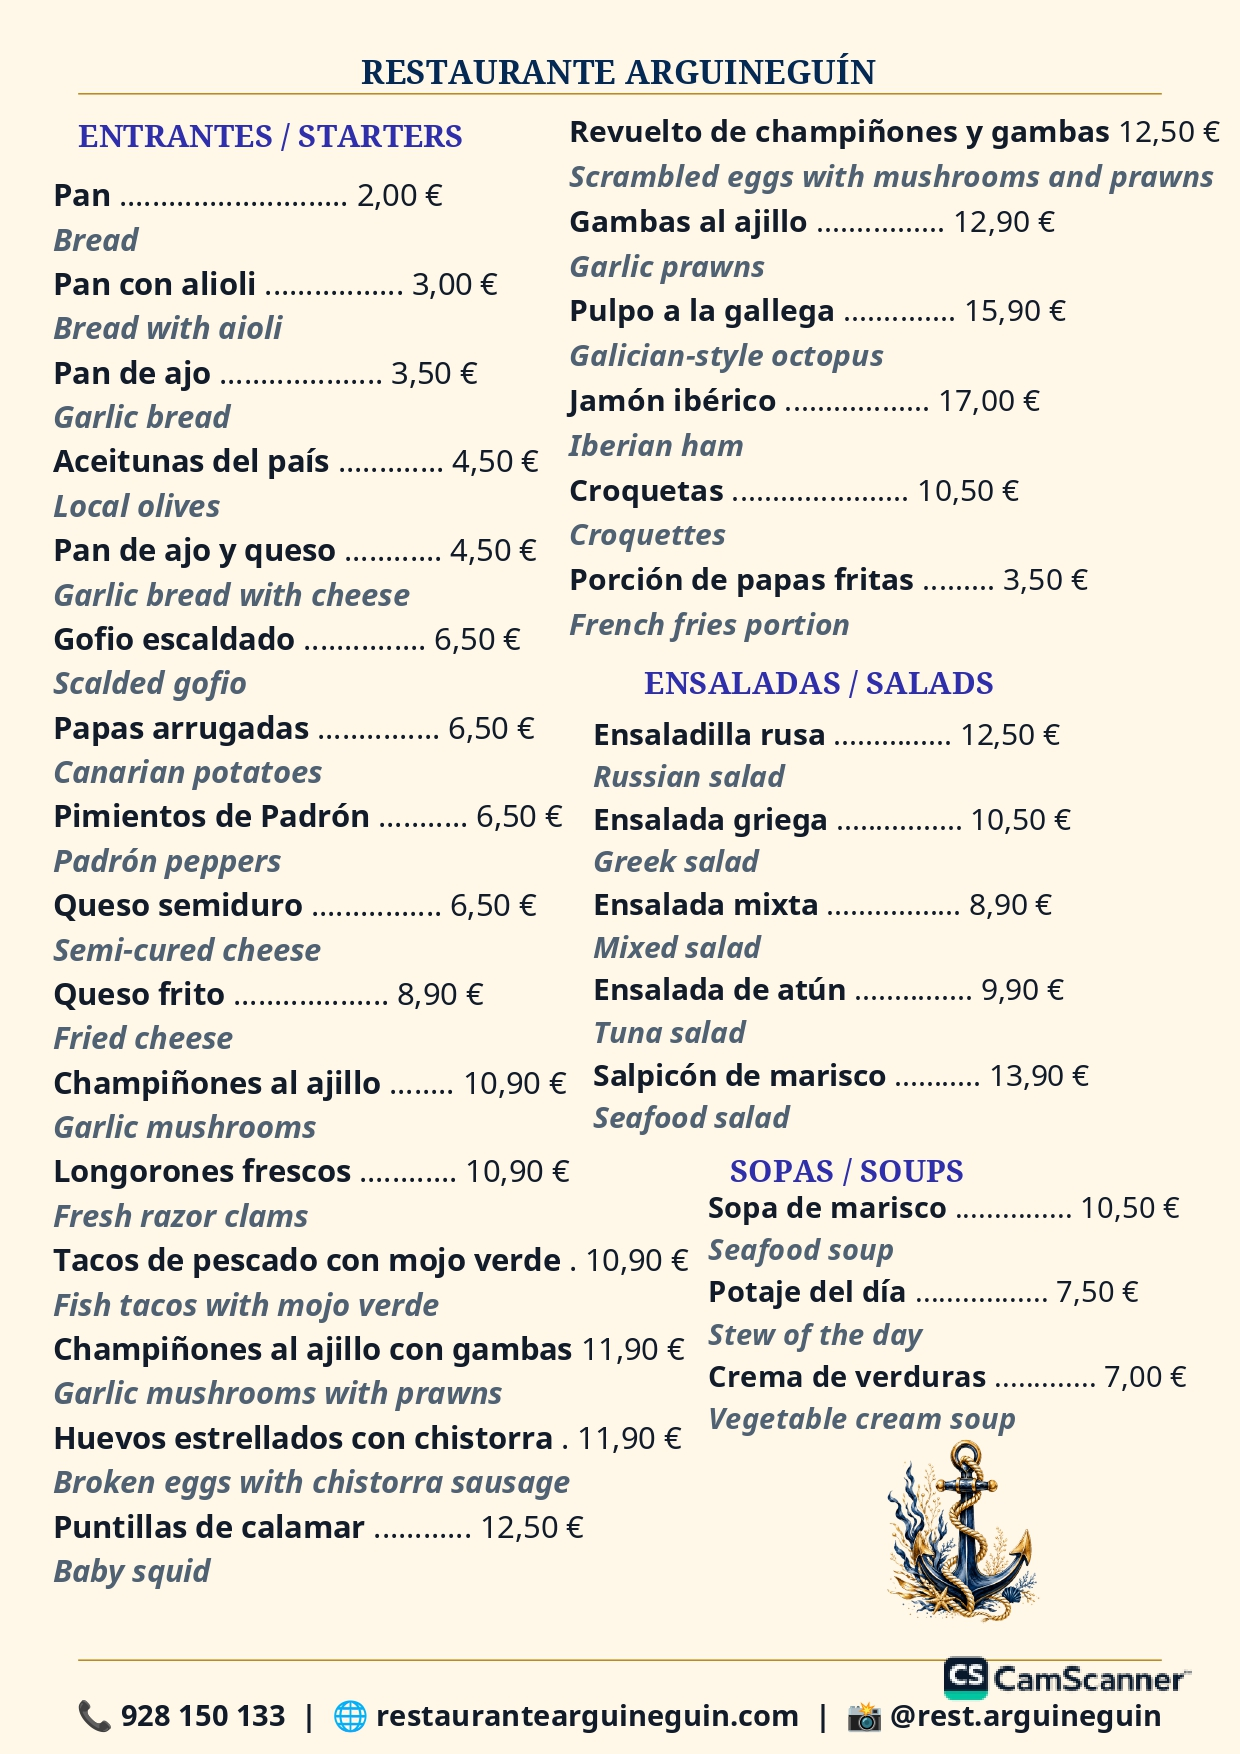
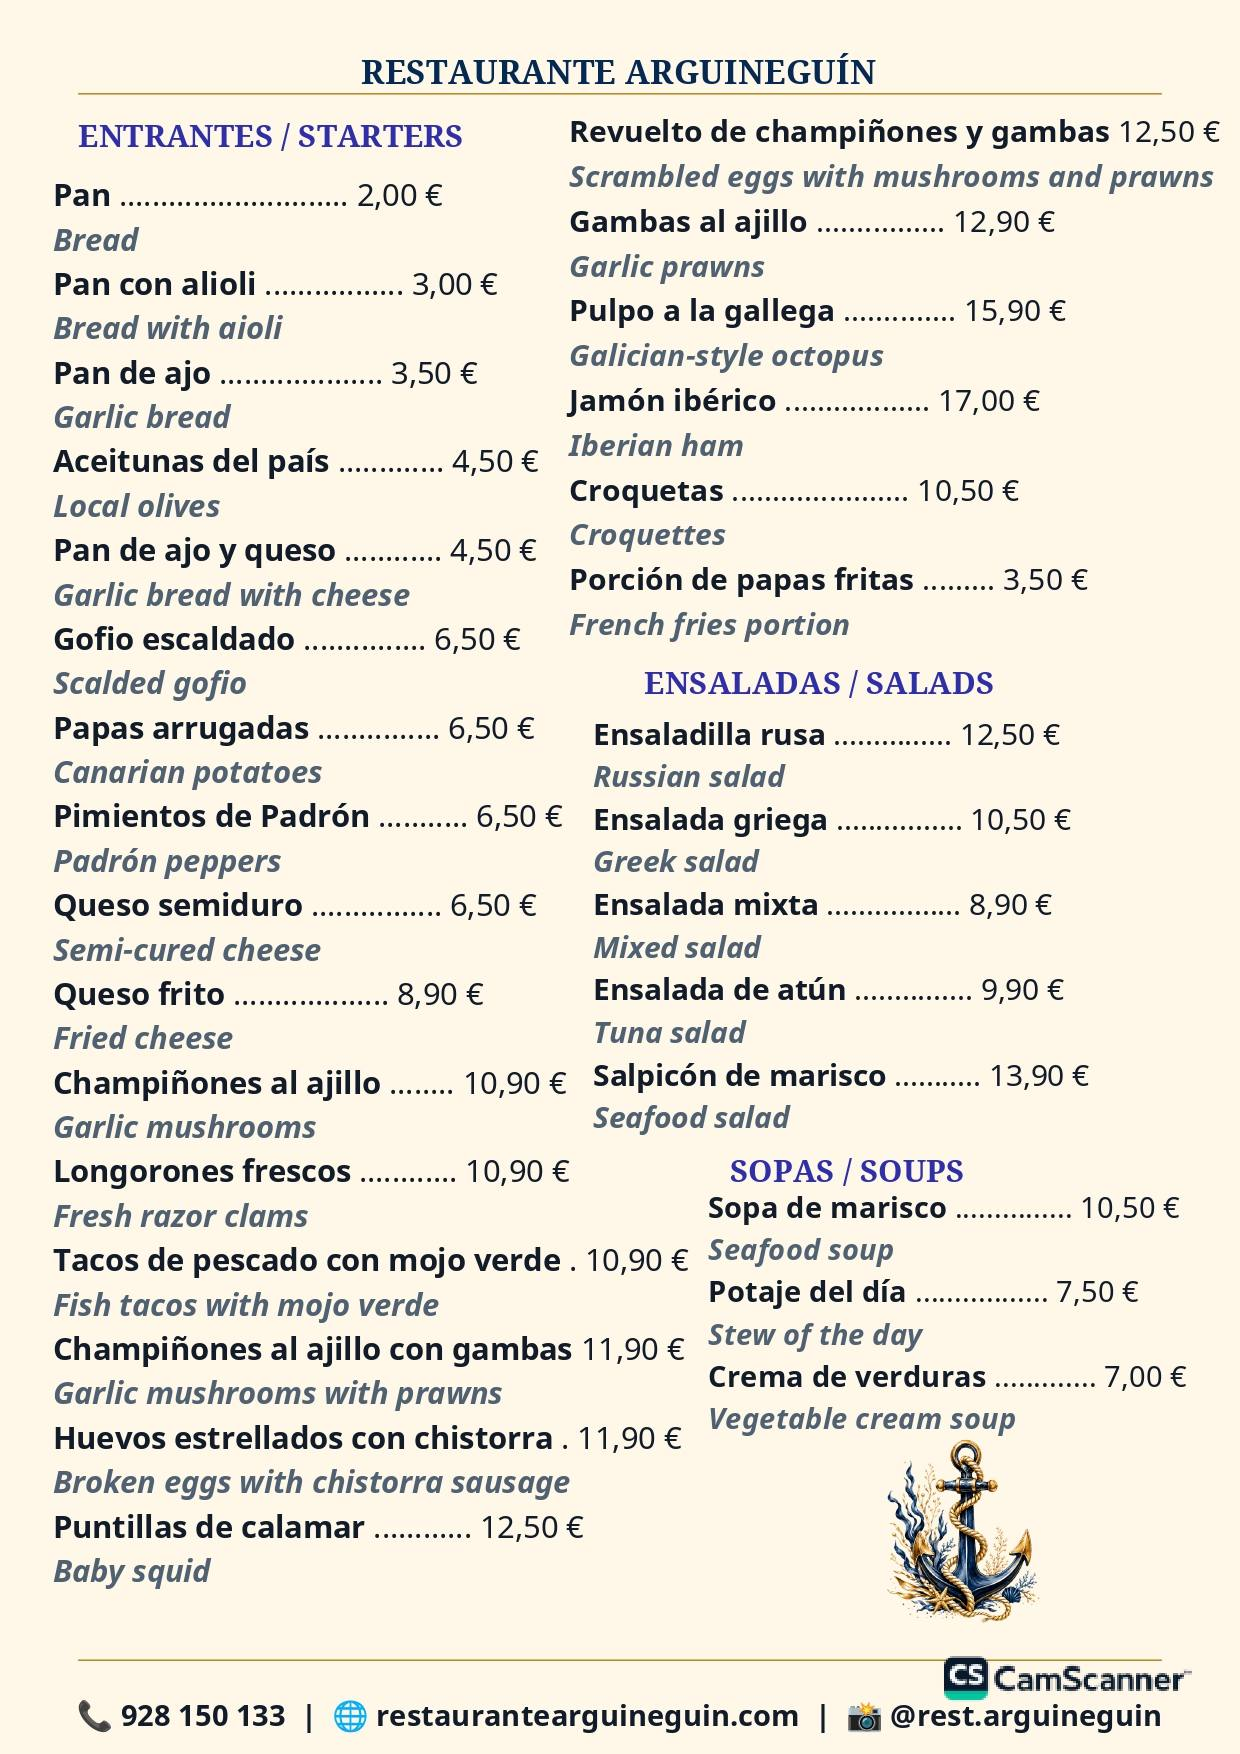
feat: carta de comidas 3 paginas comprimidas con visor multipagina

Changed region(s): [[0.7355, 0.862, 0.8274, 0.9236], [0.7661, 0.8312, 0.7968, 0.862]]

diff --git a/index.html b/index.html
@@ -653,11 +653,11 @@ button{cursor:pointer;border:none;background:none;font-family:inherit}
     </div>
   </div>
   <div class="ebtns rv">
-    <button class="ebtn" onclick="ocarta('img/Carta_Comidas.jpeg','Carta de Comidas')">
+    <button class="ebtn" onclick="ocarta(['img/carta-1.jpg','img/carta-2.jpg','img/carta-3.jpg'],'Carta de Comidas')">
       <svg width="17" height="17" viewBox="0 0 24 24" fill="none" stroke="currentColor" stroke-width="2" stroke-linecap="round" stroke-linejoin="round" aria-hidden="true"><path d="M2 3h6a4 4 0 0 1 4 4v14a3 3 0 0 0-3-3H2z"/><path d="M22 3h-6a4 4 0 0 0-4 4v14a3 3 0 0 1 3-3h7z"/></svg>
       Ver la carta
     </button>
-    <button class="ebtn ebtn-2" onclick="ocarta('img/Carta_Desayunos.jpeg','Carta de Desayunos')">
+    <button class="ebtn ebtn-2" onclick="ocarta(['img/Carta_Desayunos.jpeg'],'Carta de Desayunos')">
       <svg width="17" height="17" viewBox="0 0 24 24" fill="none" stroke="currentColor" stroke-width="2" stroke-linecap="round" stroke-linejoin="round" aria-hidden="true"><path d="M18 8h1a4 4 0 0 1 0 8h-1"/><path d="M2 8h16v9a4 4 0 0 1-4 4H6a4 4 0 0 1-4-4V8z"/><line x1="6" y1="1" x2="6" y2="4"/><line x1="10" y1="1" x2="10" y2="4"/><line x1="14" y1="1" x2="14" y2="4"/></svg>
       Desayunos
     </button>
@@ -797,11 +797,11 @@ button{cursor:pointer;border:none;background:none;font-family:inherit}
       Llamar ahora
     </a>
     <div class="pcarta">
-      <button class="pcbtn" onclick="cmod();ocarta('img/Carta_Comidas.jpeg','Carta de Comidas')">
+      <button class="pcbtn" onclick="cmod();ocarta(['img/carta-1.jpg','img/carta-2.jpg','img/carta-3.jpg'],'Carta de Comidas')">
         <svg width="15" height="15" viewBox="0 0 24 24" fill="none" stroke="currentColor" stroke-width="2" stroke-linecap="round" stroke-linejoin="round" aria-hidden="true"><path d="M2 3h6a4 4 0 0 1 4 4v14a3 3 0 0 0-3-3H2z"/><path d="M22 3h-6a4 4 0 0 0-4 4v14a3 3 0 0 1 3-3h7z"/></svg>
         Ver la carta
       </button>
-      <button class="pcbtn" onclick="cmod();ocarta('img/Carta_Desayunos.jpeg','Carta de Desayunos')">
+      <button class="pcbtn" onclick="cmod();ocarta(['img/Carta_Desayunos.jpeg'],'Carta de Desayunos')">
         <svg width="15" height="15" viewBox="0 0 24 24" fill="none" stroke="currentColor" stroke-width="2" stroke-linecap="round" stroke-linejoin="round" aria-hidden="true"><path d="M18 8h1a4 4 0 0 1 0 8h-1"/><path d="M2 8h16v9a4 4 0 0 1-4 4H6a4 4 0 0 1-4-4V8z"/><line x1="6" y1="1" x2="6" y2="4"/><line x1="10" y1="1" x2="10" y2="4"/><line x1="14" y1="1" x2="14" y2="4"/></svg>
         Desayunos
       </button>
@@ -817,7 +817,7 @@ button{cursor:pointer;border:none;background:none;font-family:inherit}
   </button>
   <div class="cartam-box">
     <div class="cartam-ttl" id="cartam-ttl">Carta</div>
-    <img id="cartam-img" src="" alt="Carta del Restaurante Arguineguín">
+    <div id="cartam-imgs"></div>
   </div>
 </div>
 
@@ -984,11 +984,13 @@ window.omod=omod;window.cmod=cmod;window.hov=hov;
 
 /* ── VISOR CARTA ─────────────────────────────────── */
 var cartam=document.getElementById('cartam'),
-    cartamImg=document.getElementById('cartam-img'),
+    cartamImgs=document.getElementById('cartam-imgs'),
     cartamTtl=document.getElementById('cartam-ttl');
-function ocarta(src,titulo){
-  cartamImg.src=src;
-  cartamImg.alt=titulo+' - Restaurante Arguineguín';
+function ocarta(srcs,titulo){
+  if(!Array.isArray(srcs))srcs=[srcs];
+  cartamImgs.innerHTML=srcs.map(function(s,i){
+    return '<img src="'+s+'" alt="'+titulo+' pág '+(i+1)+' - Restaurante Arguineguín" loading="'+(i===0?'eager':'lazy')+'" style="margin-top:'+(i>0?'1.2rem':'0')+'">';
+  }).join('');
   cartamTtl.textContent=titulo;
   cartam.scrollTop=0;
   cartam.classList.add('op');
